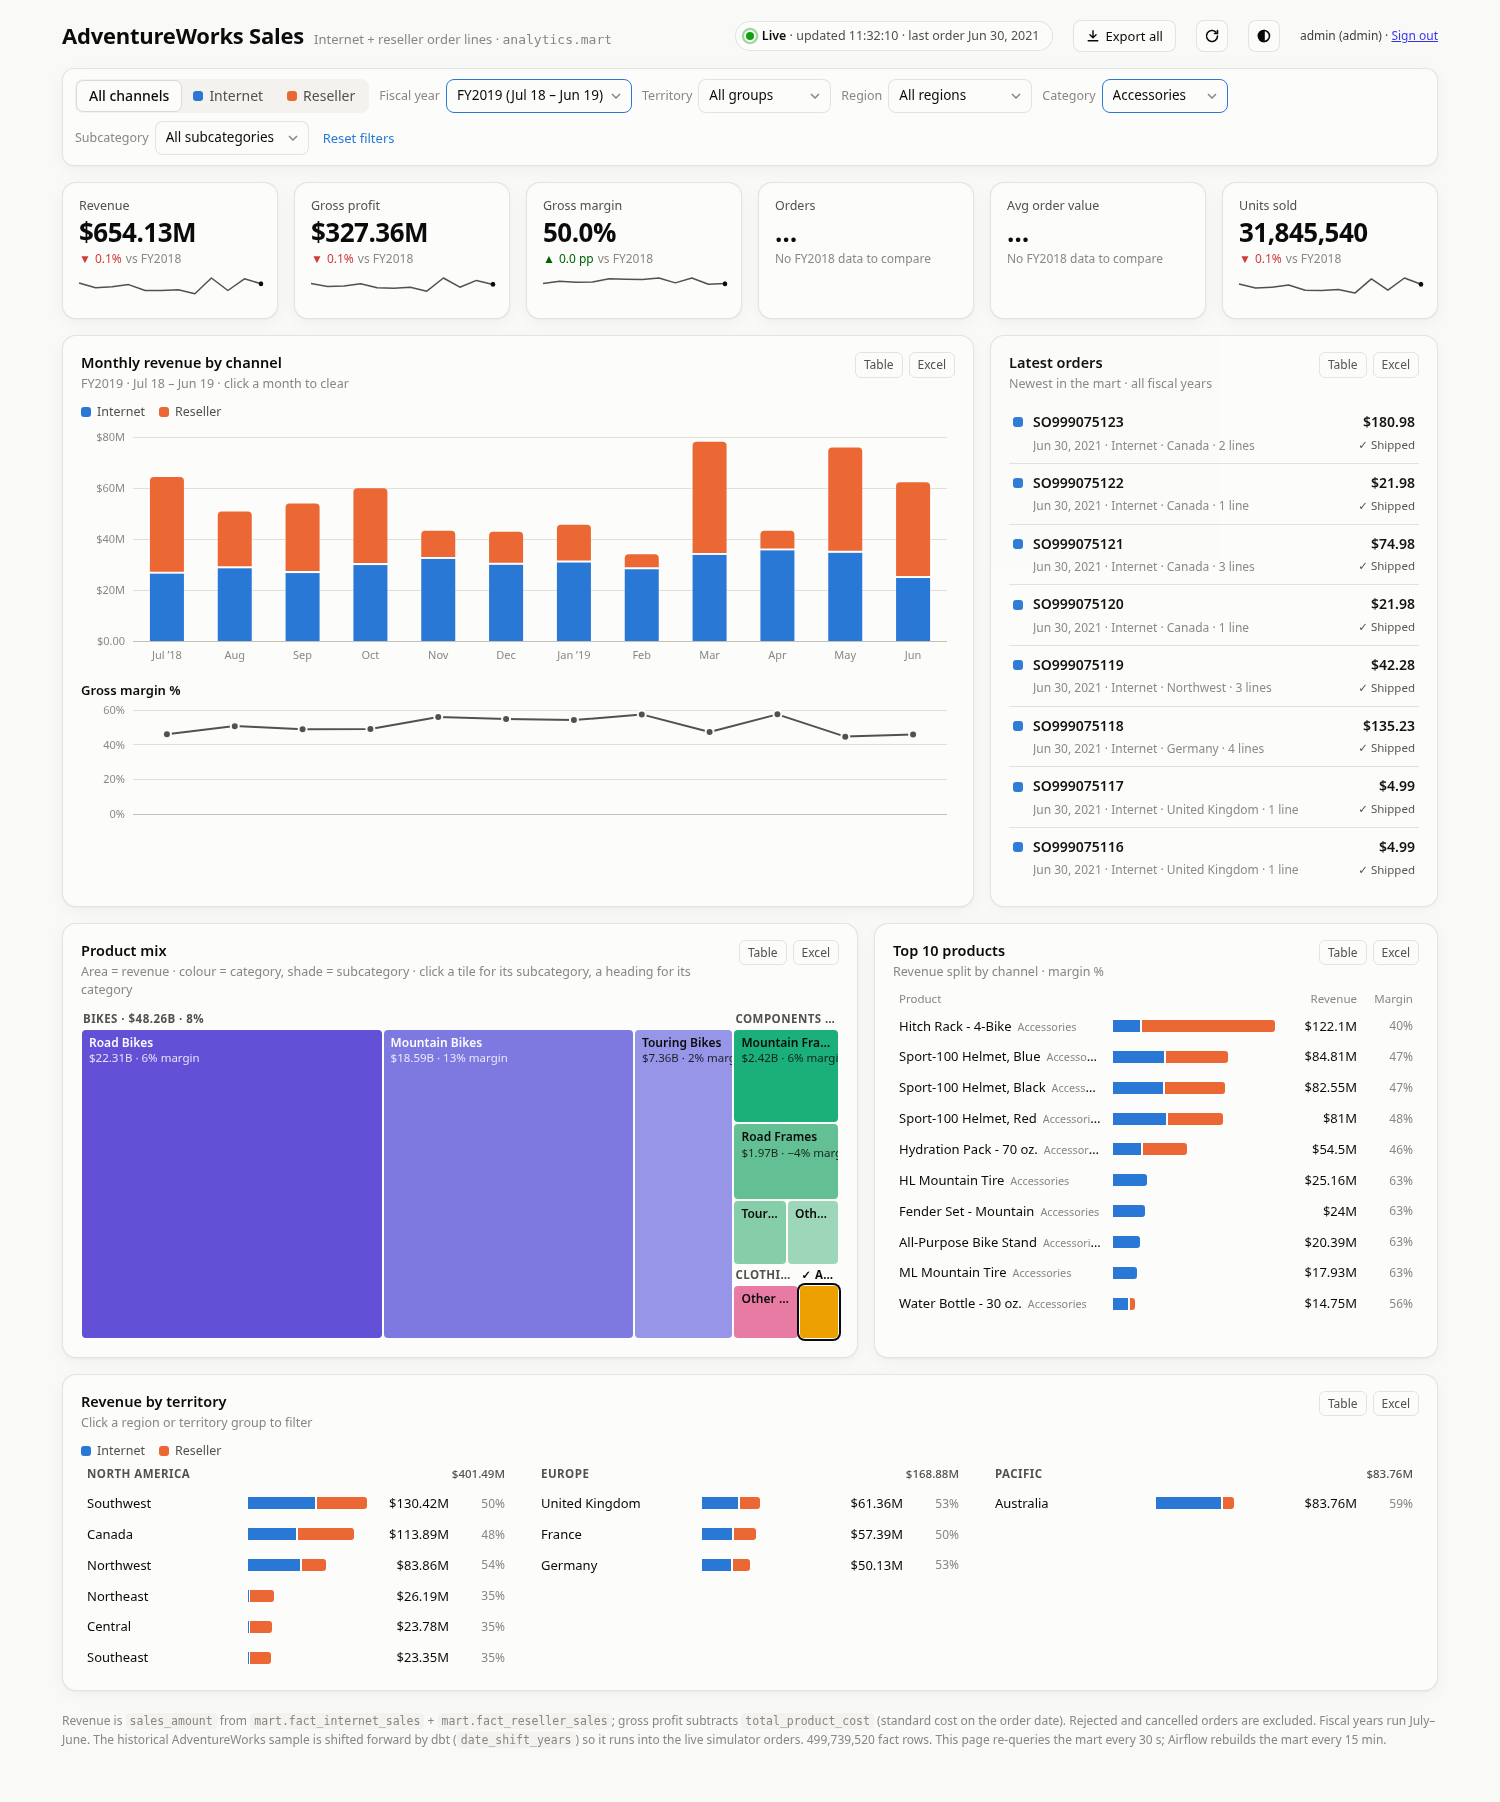
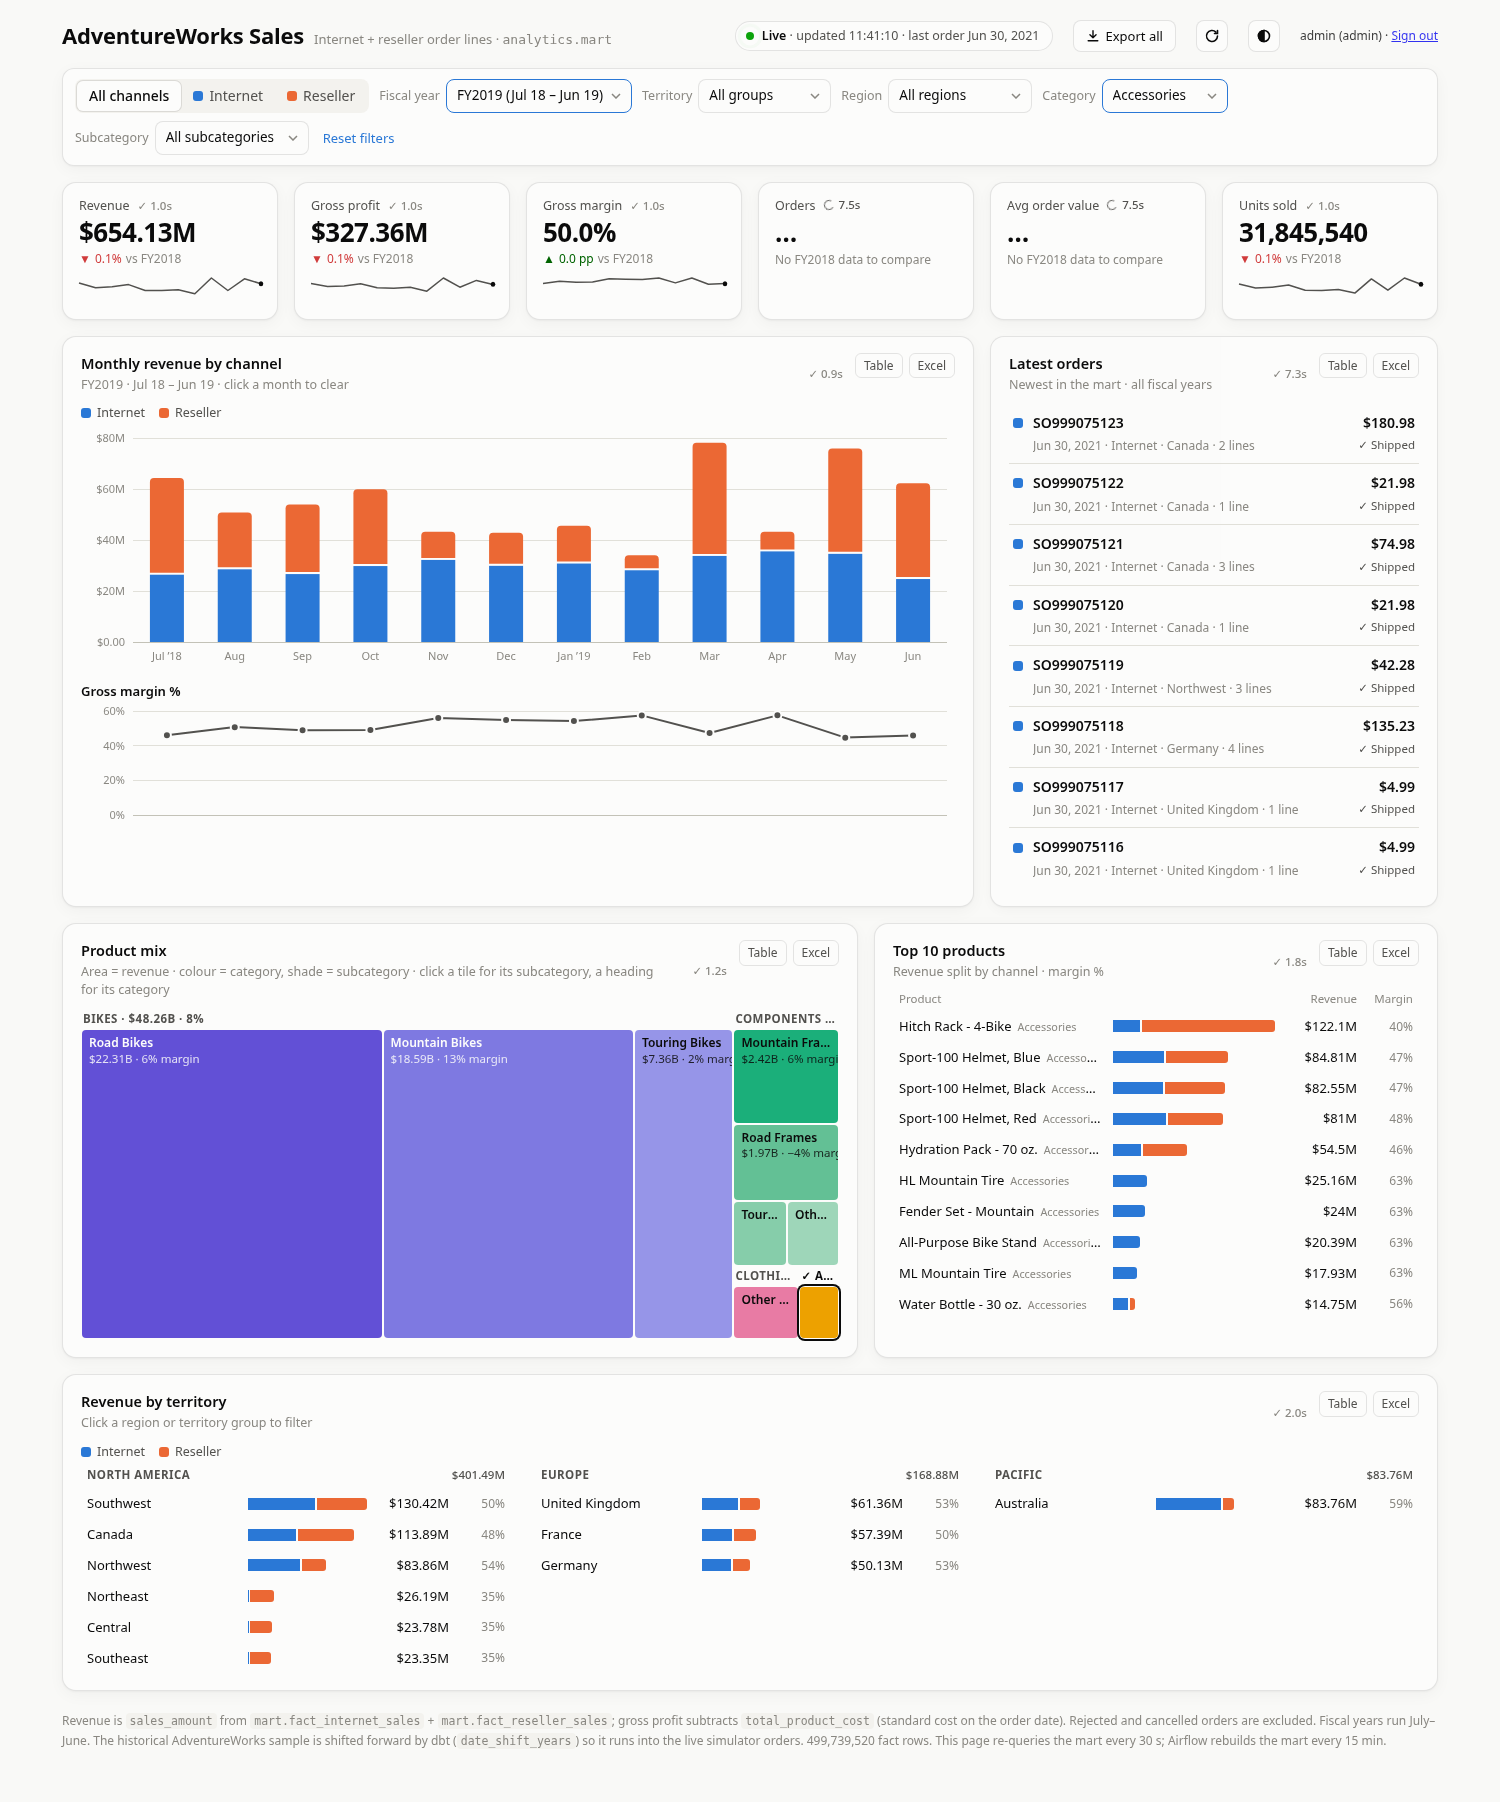
feat(spike): per-panel load spinner and seconds counter

diff --git a/dashboard/static/app.js b/dashboard/static/app.js
@@ -125,6 +125,37 @@ const PANEL_OF = {
   kpis: "#kpis", monthly: '[data-panel="trend"]', latest_orders: '[data-panel="feed"]',
   mix: '[data-panel="mix"]', top_products: '[data-panel="products"]', territories: '[data-panel="territories"]',
 };
+// ---- Per-panel load timers: a spinner with the running seconds while a panel waits, then "✓ 1.4s".
+const PANEL_KEY = { trend: "monthly", feed: "latest_orders", mix: "mix", products: "top_products", territories: "territories" };
+const TIMED = new Set(["kpis", "monthly", "mix", "top_products", "territories", "latest_orders"]);
+const timerHtml = (key) => `<span class="timer" data-key="${key}"><i class="spin"></i><b></b></span>`;
+function mountTimers() {
+  for (const card of document.querySelectorAll("[data-panel]")) {
+    const head = card.querySelector(".card-h");
+    if (!head || head.querySelector(".timer")) continue;
+    head.insertBefore(el("span", { class: "timer-wrap" }, timerHtml(PANEL_KEY[card.dataset.panel])), head.querySelector(".tbl-toggle"));
+  }
+}
+function tick() {
+  const now = performance.now();
+  for (const t of document.querySelectorAll(".timer")) {
+    const done = state.timing && state.timing[t.dataset.key];
+    const running = state.t0 != null && state.timing && done == null && state.busy;
+    t.classList.toggle("done", done != null);
+    t.classList.toggle("run", !!running);
+    const b = t.querySelector("b");
+    b.textContent = done != null ? `${(done / 1000).toFixed(1)}s` : running ? `${((now - state.t0) / 1000).toFixed(1)}s` : "";
+  }
+}
+function startTicker() { clearInterval(state.ticker); state.ticker = setInterval(tick, 100); }
+function stopTicker() { clearInterval(state.ticker); tick(); }
+function recordTimes(patch) {
+  const at = performance.now() - state.t0;
+  for (const k of Object.keys(patch)) if (TIMED.has(k) && !(k in state.timing)) state.timing[k] = at;
+  // the Orders / Avg order value tiles finish when the orders figure is no longer pending
+  if (state.data.kpis && !state.data.ordersPending && !("orders" in state.timing)) state.timing.orders = at;
+}
+
 function pend(sel, on) { document.querySelectorAll(sel).forEach((n) => n.classList.toggle("pending", on)); }
 function pendAll(on) { for (const sel of Object.values(PANEL_OF)) pend(sel, on); }
 
@@ -142,7 +173,7 @@ async function load({ quiet = false } = {}) {
   const ctrl = new AbortController();
   state.inflight = ctrl;
   state.busy = true;
-  if (!quiet) pendAll(true);
+  if (!quiet) { state.t0 = performance.now(); state.timing = {}; startTicker(); pendAll(true); }
   const q = new URLSearchParams(Object.entries(state.filters).filter(([, v]) => v));
   // Each panel's data lands here as soon as its query returns; a stale answer (the filters
   // have changed since) is dropped.
@@ -150,8 +181,10 @@ async function load({ quiet = false } = {}) {
     if (ctrl.signal.aborted) return;
     state.data = { ...(state.data || {}), ...patch };
     state.noProfit = !!window.dashboardData?.noProfit;
+    if (!quiet) recordTimes(patch);
     $("#error").hidden = true;
     renderAll();
+    tick();
     for (const [key, sel] of Object.entries(PANEL_OF)) if (key in patch) pend(sel, false);
     setLive(true);
   };
@@ -170,6 +203,7 @@ async function load({ quiet = false } = {}) {
     if (state.inflight === ctrl) {
       state.busy = false;
       pendAll(false);
+      stopTicker();
       state.timer = setTimeout(() => !document.hidden && load({ quiet: true }), POLL_MS);
     }
   }
@@ -535,7 +569,7 @@ function renderKpis(months) {
     const late = state.data.ordersPending && (k.label === "Orders" || k.label === "Avg order value");
     const shown = late ? `<span title="still counting orders">…</span>` : k.fmt(v);
     const tile = el("div", { class: "card kpi" },
-      `<div class="label">${k.label}</div><div class="value">${shown}</div><div class="delta ${cls}">${delta}</div>`);
+      `<div class="label">${k.label}${timerHtml(k.label === "Orders" || k.label === "Avg order value" ? "orders" : "kpis")}</div><div class="value">${shown}</div><div class="delta ${cls}">${delta}</div>`);
     tile.append(sparkline(series.map((m) => (m.revenue ? k.get(m) : null)), series, k));
     host.append(tile);
   }
@@ -924,4 +958,5 @@ new ResizeObserver(() => {
 }).observe($("#trend"));
 
 readUrl();
+mountTimers();
 load();

diff --git a/dashboard/static/style.css b/dashboard/static/style.css
@@ -287,3 +287,17 @@ td.n, th.n { text-align: right; font-variant-numeric: tabular-nums; }
   border: 1px solid var(--border); background: var(--surface); display: flex; gap: 8px; align-items: center;
 }
 .error-banner::before { content: "⚠"; color: var(--warn); }
+
+/* load timers: spinner + running seconds while a panel waits, "✓ 1.4s" once it has landed */
+.timer { display: inline-flex; align-items: center; gap: 5px; margin-left: 8px; font-size: 11.5px; font-weight: 500;
+  color: var(--muted); font-variant-numeric: tabular-nums; white-space: nowrap; }
+.timer-wrap { align-self: center; }
+.timer b { font-weight: 500; }
+.timer .spin { display: none; width: 10px; height: 10px; border: 1.6px solid currentColor; border-top-color: transparent;
+  border-radius: 50%; animation: timer-spin 0.8s linear infinite; }
+.timer.run .spin { display: inline-block; }
+.timer.run { color: var(--ink-2); }
+.timer.done b::before { content: "✓ "; }
+.timer:not(.run):not(.done) { display: none; }
+@keyframes timer-spin { to { transform: rotate(360deg); } }
+@media (prefers-reduced-motion: reduce) { .timer .spin { animation: none; } }
